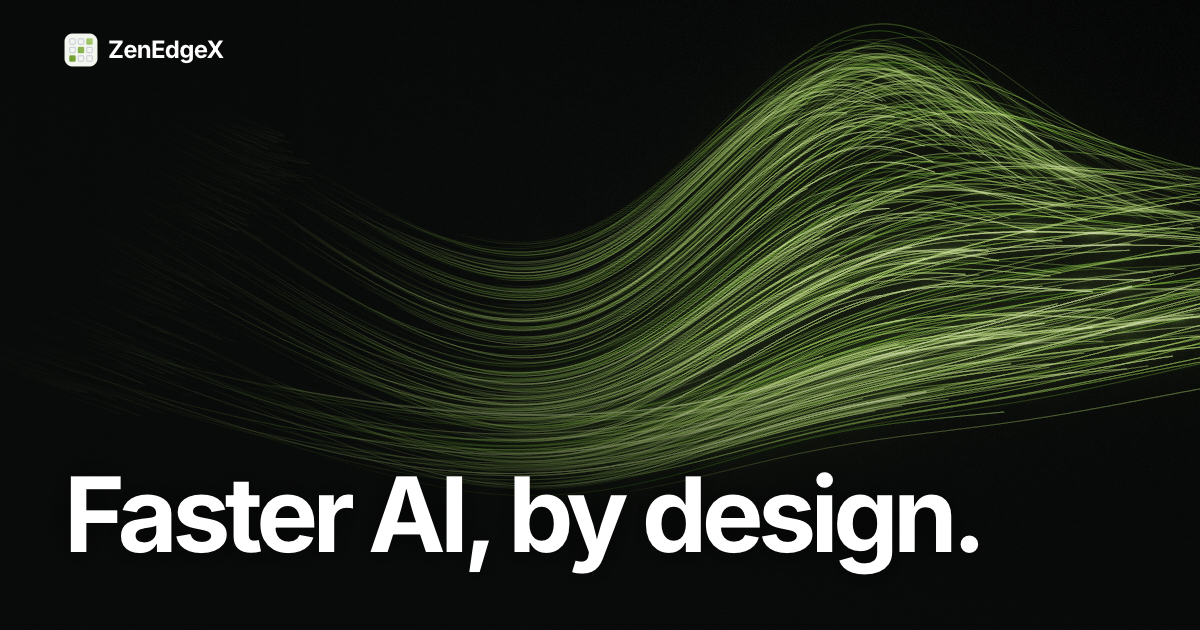
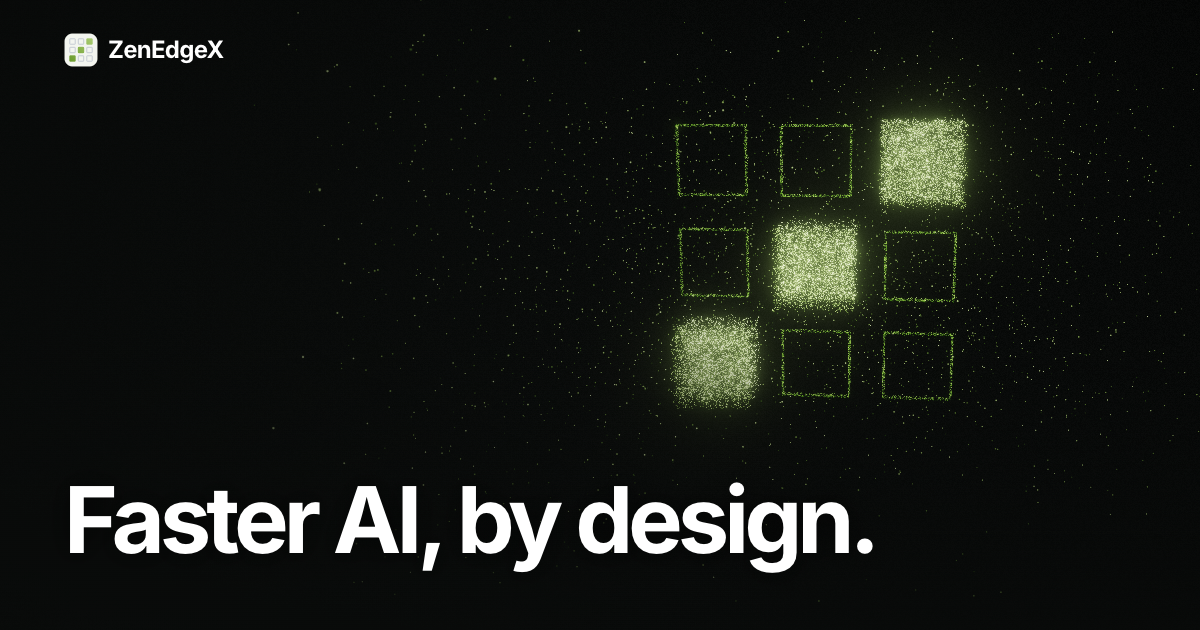
Home hero: particle mark (60,000 points of light computed on the GPU drift as a cloud, gather into the ZenEdgeX 3x3 mark, hold and dissolve on a 14 s cycle) replaces silk; hero.js gains GPU-computed systems (mark, streams, waves); share image updated

Changed region(s): [[0.0617, 0.0302, 1.0, 0.9349]]

diff --git a/assets/hero.js b/assets/hero.js
@@ -49,6 +49,85 @@
       },
       dt: .0065, view: { el: .4, dist: 3.0, fov: 46, n: 1400, l: 560, gain: .26, tail: .4, bloom: .75 }, sx: .04, sy: .34,
     },
+    // computed on the GPU: every point's position is a function of its index and the time
+    // the ZenEdgeX mark: a slowly turning cloud of light gathers into the 3x3 grid, holds, and lets go
+    mark: {
+      proc: { prim: 'points', count: [60000, 26000], swing: .26, still: 6, vs: `
+void main() {
+  float id = float(gl_VertexID), t = uTime;
+  float a = h1(id), b = h1(id + 3.7), c = h1(id + 9.1), d = h1(id + 15.3), e = h1(id + 21.9);
+  // the mark: three filled cells on the diagonal take 70% of the points, the six outlined cells the rest
+  bool filled = a < 0.7;
+  vec2 cell;
+  if (filled) { float k = floor(b * 3.0); cell = vec2(2.0 - k, k); }
+  else { float k = floor(b * 6.0); cell = k < 1.0 ? vec2(0, 0) : k < 2.0 ? vec2(1, 0) : k < 3.0 ? vec2(0, 1) : k < 4.0 ? vec2(2, 1) : k < 5.0 ? vec2(1, 2) : vec2(2, 2); }
+  vec2 ctr = vec2((cell.x - 1.0) * 0.62, (1.0 - cell.y) * 0.62);
+  float hs = filled ? 0.24 : 0.205;
+  vec2 q;
+  if (filled) q = (vec2(c, d) * 2.0 - 1.0) * hs;
+  else { float u = c * 4.0, s = fract(u) * 2.0 - 1.0; q = (u < 1.0 ? vec2(s, -1.0) : u < 2.0 ? vec2(1.0, s) : u < 3.0 ? vec2(-s, 1.0) : vec2(-1.0, -s)) * hs; }
+  // filled cells are solid blocks with depth; outlines are thin frames
+  vec3 target = vec3(ctr.x + q.x, (e - 0.5) * (filled ? 0.48 : 0.04), ctr.y + q.y);
+  // the cloud: a turning ellipsoid with a slow shimmer
+  vec3 r = (vec3(h1(id + 31.0), h1(id + 47.0), h1(id + 59.0)) * 2.0 - 1.0) * vec3(2.7, 1.7, 1.45) * pow(h1(id + 71.0), 0.35);
+  float ang = t * 0.06 + r.z * 0.25;
+  vec3 cloud = vec3(r.x * cos(ang) - r.y * sin(ang), r.x * sin(ang) + r.y * cos(ang), r.z);
+  cloud += 0.12 * vec3(sin(t * 0.7 + r.z * 3.0 + a * 6.28), sin(t * 0.6 + r.x * 2.7), sin(t * 0.5 + r.y * 3.1 + c * 6.28));
+  // cycle of 14 s: gather (staggered per point), hold, release, drift
+  float ph = mod(t + 1.0, 14.0), lag = (c + d) * 0.7;
+  float m = smoothstep(0.0, 3.2, ph - lag) * (1.0 - smoothstep(8.5, 11.5, ph - lag * 0.6));
+  m = m * m * (3.0 - 2.0 * m);
+  // one point in seven never joins the mark: ambient dust around it
+  float dust = step(0.86, h1(id + 83.0));
+  m *= 1.0 - dust;
+  vec3 p = mix(cloud, target + 0.006 * vec3(sin(t * 2.0 + id), 0.0, cos(t * 1.7 + id)), m);
+  vec4 cp = place(p);
+  gl_Position = cp;
+  gl_PointSize = max(1.0, mix(2.6, filled ? 2.0 : 1.8, m) * uPx * (5.0 / cp.w));
+  vCol = mix(ramp(e), filled ? mix(uC1, uC2, e) : mix(uC0, uC1, e * 0.6), m);
+  vA = mix((0.35 + 0.65 * e) * (1.0 - dust * 0.5), filled ? 0.75 : 0.6, m);
+}` },
+      view: { el: .2, dist: 5.2, fov: 40, gain: .5, bloom: .75 }, sx: .34, sy: .18,
+    },
+    // light pulses racing along the lanes of a die toward the viewer, floor and ceiling, with cross traffic
+    streams: {
+      proc: { prim: 'lines', count: [16000, 7000], swing: .12, still: 4, vs: `
+void main() {
+  float id = float(gl_VertexID >> 1), head = float(gl_VertexID & 1), t = uTime;
+  float a = h1(id), b = h1(id + 5.3), c = h1(id + 11.7), d = h1(id + 19.1), e = h1(id + 27.3);
+  bool across = b < 0.2, lane = b > 0.985, roof = false;
+  float speed = mix(1.0, 7.5, c * c), L = 15.0;
+  float s = lane ? L : mod(d * L + t * speed, L);
+  float tail = lane ? L : mix(0.25, 1.5, c);
+  float u = s - (1.0 - head) * tail;
+  float z = roof ? 1.15 : -0.55;
+  vec3 p = across ? vec3(-7.5 + u, 1.0 + floor(a * 40.0) * 0.32, z) : vec3((floor(a * 96.0) - 48.0) * 0.105, 13.5 - u, z);
+  vec4 cp = place(p);
+  gl_Position = cp;
+  vCol = mix(ramp(c), uC2, c * c * 0.6);
+  float fog = exp(-max(p.y, 0.0) * 0.12) * smoothstep(-1.2, 0.4, p.y);
+  vA = (lane ? 0.012 : head * (0.35 + 0.9 * c)) * fog * (roof ? 0.4 : 1.0) * (across ? 0.7 : 1.0);
+}` },
+      view: { el: .13, dist: 2.0, fov: 58, gain: .9, bloom: .8 }, sx: 0, sy: .12,
+    },
+    // a lattice of points rippling with crossing waves, crests lit
+    waves: {
+      proc: { prim: 'points', count: [72000, 30000], swing: .18, still: 3, vs: `
+void main() {
+  float id = float(gl_VertexID), t = uTime;
+  float cols = uSmall > 0.5 ? 200.0 : 360.0, rows = floor(float(uCount) / cols);
+  float gx = mod(id, cols), gy = floor(id / cols);
+  float x = (gx / (cols - 1.0) - 0.5) * 14.0, y = gy / (rows - 1.0) * 16.0 - 1.0;
+  float h = 0.22 * sin(0.55 * x + t * 0.5) * cos(0.35 * y - t * 0.3) + 0.12 * sin(0.9 * (x * 0.6 + y) - t * 0.9) + 0.06 * sin(1.7 * x - 1.3 * y + t * 1.3);
+  vec4 cp = place(vec3(x, y, h - 0.6));
+  gl_Position = cp;
+  gl_PointSize = max(1.0, 2.0 * uPx * (2.6 / cp.w));
+  float crest = smoothstep(-0.15, 0.3, h);
+  vCol = mix(uC0, uC2, crest);
+  vA = (0.2 + 0.95 * crest) * exp(-max(y, 0.0) * 0.09) * smoothstep(-1.0, 0.6, y) * (1.0 - smoothstep(5.0, 7.0, abs(x)));
+}` },
+      view: { el: .2, dist: 2.6, fov: 54, gain: .16, bloom: .65 }, sx: 0, sy: 0,
+    },
   };
 
   // ---------------------------------------------------------------- camera maths
@@ -88,11 +167,11 @@
       p[2] += dt / 6 * (k1[2] + 2 * k2[2] + 2 * k3[2] + k4[2]);
     };
     // probe: where the attractor lives, how big it is, and how fast a trail moves across it
-    const R = S.flow ? [1, 0, 0, 0, 1, 0, 0, 0, 1] : toZ(S.up);
+    const R = S.flow || S.proc ? [1, 0, 0, 0, 1, 0, 0, 0, 1] : toZ(S.up);
     let center = [0, 0, 0], scale = 1, SUB = 1, pool = [];
     const rot = (p, o) => { o[0] = R[0] * p[0] + R[1] * p[1] + R[2] * p[2]; o[1] = R[3] * p[0] + R[4] * p[1] + R[5] * p[2]; o[2] = R[6] * p[0] + R[7] * p[1] + R[8] * p[2]; };
     const norm = (p, o) => { rot([p[0] - center[0], p[1] - center[1], p[2] - center[2]], o); o[0] *= scale; o[1] *= scale; o[2] *= scale; };
-    if (S.flow) SUB = 1;
+    if (S.flow || S.proc) SUB = 1;
     else {
       const p = S.start.slice(), pts = [];
       for (let i = 0; i < 4000; i++) rk4(p, S.dt);
@@ -124,8 +203,9 @@
     const lost = p => { if (S.flow) return p[0] > 3.1; const v = view3(p); return !(Math.abs(v[0]) < 5 && Math.abs(v[1]) < 5 && Math.abs(v[2]) < 5); };
 
     // ------------------------------------------------------------ camera
-    const cam = { az: S.flow ? -1.5708 : 2.2, el: O.el, dist: O.dist, paz: 0, pel: 0, tpaz: 0, tpel: 0 };
-    if (O.interactive) addEventListener('pointermove', e => { cam.tpaz = (e.clientX / innerWidth - .5) * (S.flow ? .18 : .35); cam.tpel = (e.clientY / innerHeight - .5) * .16; }, { passive: true });
+    const front = S.flow || S.proc;
+    const cam = { az: front ? -1.5708 : 2.2, el: O.el, dist: O.dist, paz: 0, pel: 0, tpaz: 0, tpel: 0 };
+    if (O.interactive) addEventListener('pointermove', e => { cam.tpaz = (e.clientX / innerWidth - .5) * (front ? .18 : .35); cam.tpel = (e.clientY / innerHeight - .5) * .16; }, { passive: true });
     const reach = (w, h) => cam.dist * (w / h < 1 ? Math.min(2.1, Math.pow(h / w, .75)) : 1);
     const view = (w, h) => {
       const az = cam.az + cam.paz, el = cam.el + cam.pel, d = reach(w, h);
@@ -133,7 +213,7 @@
       return mul(persp(O.fov * Math.PI / 180, w / h, .05, 50), lookAt(eye, [0, 0, 0], [0, 0, 1]));
     };
     // landscape: the shape sits right of the copy; portrait: above it
-    const shift = (w, h) => (w / h > 1.1 ? [O.sx, O.sy] : [0, S.flow ? .5 : .42]);
+    const shift = (w, h) => (w / h > 1.1 ? [O.sx, O.sy] : [0, S.flow ? .5 : S.proc ? (S.sx ? .4 : 0) : .42]);
 
     let gl = null;
     try { gl = cv.getContext('webgl2', { antialias: false, alpha: false, premultipliedAlpha: false, powerPreference: 'high-performance' }); } catch { gl = null; }
@@ -156,8 +236,28 @@
       const H = '#version 300 es\nprecision highp float;\nprecision highp int;\n';
       const QUAD = H + 'out vec2 vUv;\nvoid main(){ vec2 p = vec2(float((gl_VertexID << 1) & 2), float(gl_VertexID & 2)); vUv = p; gl_Position = vec4(p * 2.0 - 1.0, 0.0, 1.0); }';
 
-      let lines, down, up, comp;
+      let lines, down, up, comp, proc = null;
+      const PROC_COUNT = S.proc ? S.proc.count[small ? 1 : 0] : 0;
       try {
+        if (S.proc) proc = prog(H + `uniform float uTime, uPx, uSmall;
+uniform int uCount;
+uniform mat4 uMVP;
+uniform vec2 uShift;
+uniform vec3 uC0, uC1, uC2;
+out vec3 vCol;
+out float vA;
+float h1(float n) { return fract(sin(n * 12.9898 + 78.233) * 43758.5453); }
+vec3 ramp(float h) { return h < 0.5 ? mix(uC0, uC1, h * 2.0) : mix(uC1, uC2, h * 2.0 - 1.0); }
+vec4 place(vec3 p) { vec4 c = uMVP * vec4(p, 1.0); c.xy += uShift * c.w; return c; }
+` + S.proc.vs, H + (S.proc.prim === 'points' ? `in vec3 vCol;
+in float vA;
+uniform float uGain;
+out vec4 o;
+void main() { vec2 q = gl_PointCoord * 2.0 - 1.0; float d = dot(q, q); if (d > 1.0) discard; o = vec4(vCol * vA * exp(-d * 3.0) * uGain, 1.0); }` : `in vec3 vCol;
+in float vA;
+uniform float uGain;
+out vec4 o;
+void main() { o = vec4(vCol * vA * uGain, 1.0); }`));
         lines = prog(H + `uniform highp sampler2D uPos;
 uniform int uL, uHead;
 uniform mat4 uMVP;
@@ -234,9 +334,9 @@ void main() {
 
       gl.bindVertexArray(gl.createVertexArray());
 
-      // trail history: L samples × N trails, normalized xyz + generation in w
-      const ps = [], gen = new Float32Array(N), hist = new Float32Array(N * L * 4);
-      for (let s = 0; s < N; s++) {
+      // trail history: L samples × N trails, normalized xyz + generation in w (none for GPU-computed systems)
+      const ps = [], gen = new Float32Array(N), hist = new Float32Array(S.proc ? 4 : N * L * 4);
+      for (let s = 0; s < (S.proc ? 0 : N); s++) {
         const p = [0, 0, 0]; seed(p); ps.push(p);
         // flows start already spread across the field, so the first frame is full
         if (S.flow) { const pre = (Math.random() * 900) | 0; for (let i = 0; i < pre; i++) { sample(p); if (lost(p)) seed(p); } }
@@ -247,10 +347,12 @@ void main() {
       gl.bindTexture(gl.TEXTURE_2D, posTex);
       gl.texParameteri(gl.TEXTURE_2D, gl.TEXTURE_MIN_FILTER, gl.NEAREST);
       gl.texParameteri(gl.TEXTURE_2D, gl.TEXTURE_MAG_FILTER, gl.NEAREST);
-      gl.texImage2D(gl.TEXTURE_2D, 0, gl.RGBA32F, L, N, 0, gl.RGBA, gl.FLOAT, hist);
+      gl.texImage2D(gl.TEXTURE_2D, 0, gl.RGBA32F, S.proc ? 1 : L, S.proc ? 1 : N, 0, gl.RGBA, gl.FLOAT, hist);
       const col = new Float32Array(N * 4);
       const step = () => {
-        head = (head + 1) % L; time += 1 / 60;
+        time += 1 / 60;
+        if (S.proc) return;
+        head = (head + 1) % L;
         for (let s = 0; s < N; s++) {
           const p = ps[s];
           if (--p.life < 0 || lost(p)) { seed(p); gen[s] = (gen[s] + 1) % 4096; }
@@ -300,14 +402,23 @@ void main() {
         gl.bindFramebuffer(gl.FRAMEBUFFER, msFb); gl.viewport(0, 0, W, Hh);
         gl.clearColor(0, 0, 0, 1); gl.clear(gl.COLOR_BUFFER_BIT);
         gl.enable(gl.BLEND); gl.blendFunc(gl.ONE, gl.ONE);
+        const gain = (hdr ? O.gain : O.gain * .55) * (small ? 1.5 : 1) * Math.min(1.4, Math.max(.75, W / 2200));
+        if (proc) {
+          const u = proc.u; gl.useProgram(proc.p);
+          gl.uniform1f(u.uTime, time); if (u.uPx) gl.uniform1f(u.uPx, Hh / 900); if (u.uSmall) gl.uniform1f(u.uSmall, small ? 1 : 0); if (u.uCount) gl.uniform1i(u.uCount, PROC_COUNT);
+          gl.uniformMatrix4fv(u.uMVP, false, view(w, h)); gl.uniform2fv(u.uShift, shift(w, h));
+          gl.uniform3fv(u.uC0, c0); gl.uniform3fv(u.uC1, c1); gl.uniform3fv(u.uC2, c2); gl.uniform1f(u.uGain, gain);
+          gl.drawArrays(S.proc.prim === 'points' ? gl.POINTS : gl.LINES, 0, PROC_COUNT * (S.proc.prim === 'points' ? 1 : 2));
+        } else {
         gl.useProgram(lines.p);
         gl.activeTexture(gl.TEXTURE0); gl.bindTexture(gl.TEXTURE_2D, posTex);
         gl.uniform1i(lines.u.uPos, 0); gl.uniform1i(lines.u.uL, L); gl.uniform1i(lines.u.uHead, head);
         gl.uniformMatrix4fv(lines.u.uMVP, false, view(w, h)); gl.uniform2fv(lines.u.uShift, shift(w, h));
         gl.uniform1f(lines.u.uTail, O.tail); gl.uniform1f(lines.u.uDist, reach(w, h)); gl.uniform1f(lines.u.uFog, O.fog); gl.uniform1f(lines.u.uEdge, S.flow ? 1 : 0);
         gl.uniform3fv(lines.u.uC0, c0); gl.uniform3fv(lines.u.uC1, c1); gl.uniform3fv(lines.u.uC2, c2);
-        gl.uniform1f(lines.u.uGain, (hdr ? O.gain : O.gain * .55) * (small ? 1.5 : 1) * Math.min(1.4, Math.max(.75, W / 2200)));
+        gl.uniform1f(lines.u.uGain, gain);
         gl.drawArrays(gl.LINES, 0, N * (L - 1) * 2);
+        }
         gl.disable(gl.BLEND);
         gl.bindFramebuffer(gl.READ_FRAMEBUFFER, msFb); gl.bindFramebuffer(gl.DRAW_FRAMEBUFFER, scene.f);
         gl.blitFramebuffer(0, 0, W, Hh, 0, 0, W, Hh, gl.COLOR_BUFFER_BIT, gl.NEAREST);
@@ -345,13 +456,14 @@ void main() {
         while (acc >= 1 && n < 3) { step(); acc -= 1; n++; }
         if (n === 3) acc = 0;
         // the view drifts slowly round the shape (a flow sways instead) and leans toward the pointer
-        if (S.flow) cam.az = -1.5708 + Math.sin(time * .05) * .22; else cam.az += dt * .045;
+        if (front) cam.az = -1.5708 + Math.sin(time * .05) * (S.proc ? S.proc.swing : .22); else cam.az += dt * .045;
         cam.paz += (cam.tpaz - cam.paz) * Math.min(1, dt * 2.5); cam.pel += (cam.tpel - cam.pel) * Math.min(1, dt * 2.5);
         draw(now);
         raf = requestAnimationFrame(loop);
       };
       const start = () => { if (!raf && !reduce && visible && !document.hidden) { last = 0; raf = requestAnimationFrame(loop); } };
       resize();
+      if (reduce && S.proc) time = S.proc.still;
       if (reduce) draw(born + 1e5); else start();
       let rt;
       addEventListener('resize', () => { clearTimeout(rt); rt = setTimeout(() => { resize(); if (reduce) draw(born + 1e5); }, 120); });
@@ -362,6 +474,7 @@ void main() {
 
     // ============================================================ canvas fallback
     function canvas2d() {
+      if (S.proc) return;
       const fresh = cv.cloneNode(); cv.replaceWith(fresh);
       const ctx = fresh.getContext('2d');
       const N = innerWidth < 760 ? 160 : 300, LEN = 160;

diff --git a/index.html b/index.html
@@ -58,7 +58,7 @@
 <div class="zx-scrim"></div>
 
 <main class="zx-hero" id="top">
-  <canvas id="zx-attractor" data-system="silk" aria-hidden="true"></canvas>
+  <canvas id="zx-attractor" data-system="mark" aria-hidden="true"></canvas>
   <div class="zx-hero__shade" aria-hidden="true"></div>
   <div class="zx-hero__teaser"><div>
     <h1>Faster AI, by design.</h1>
